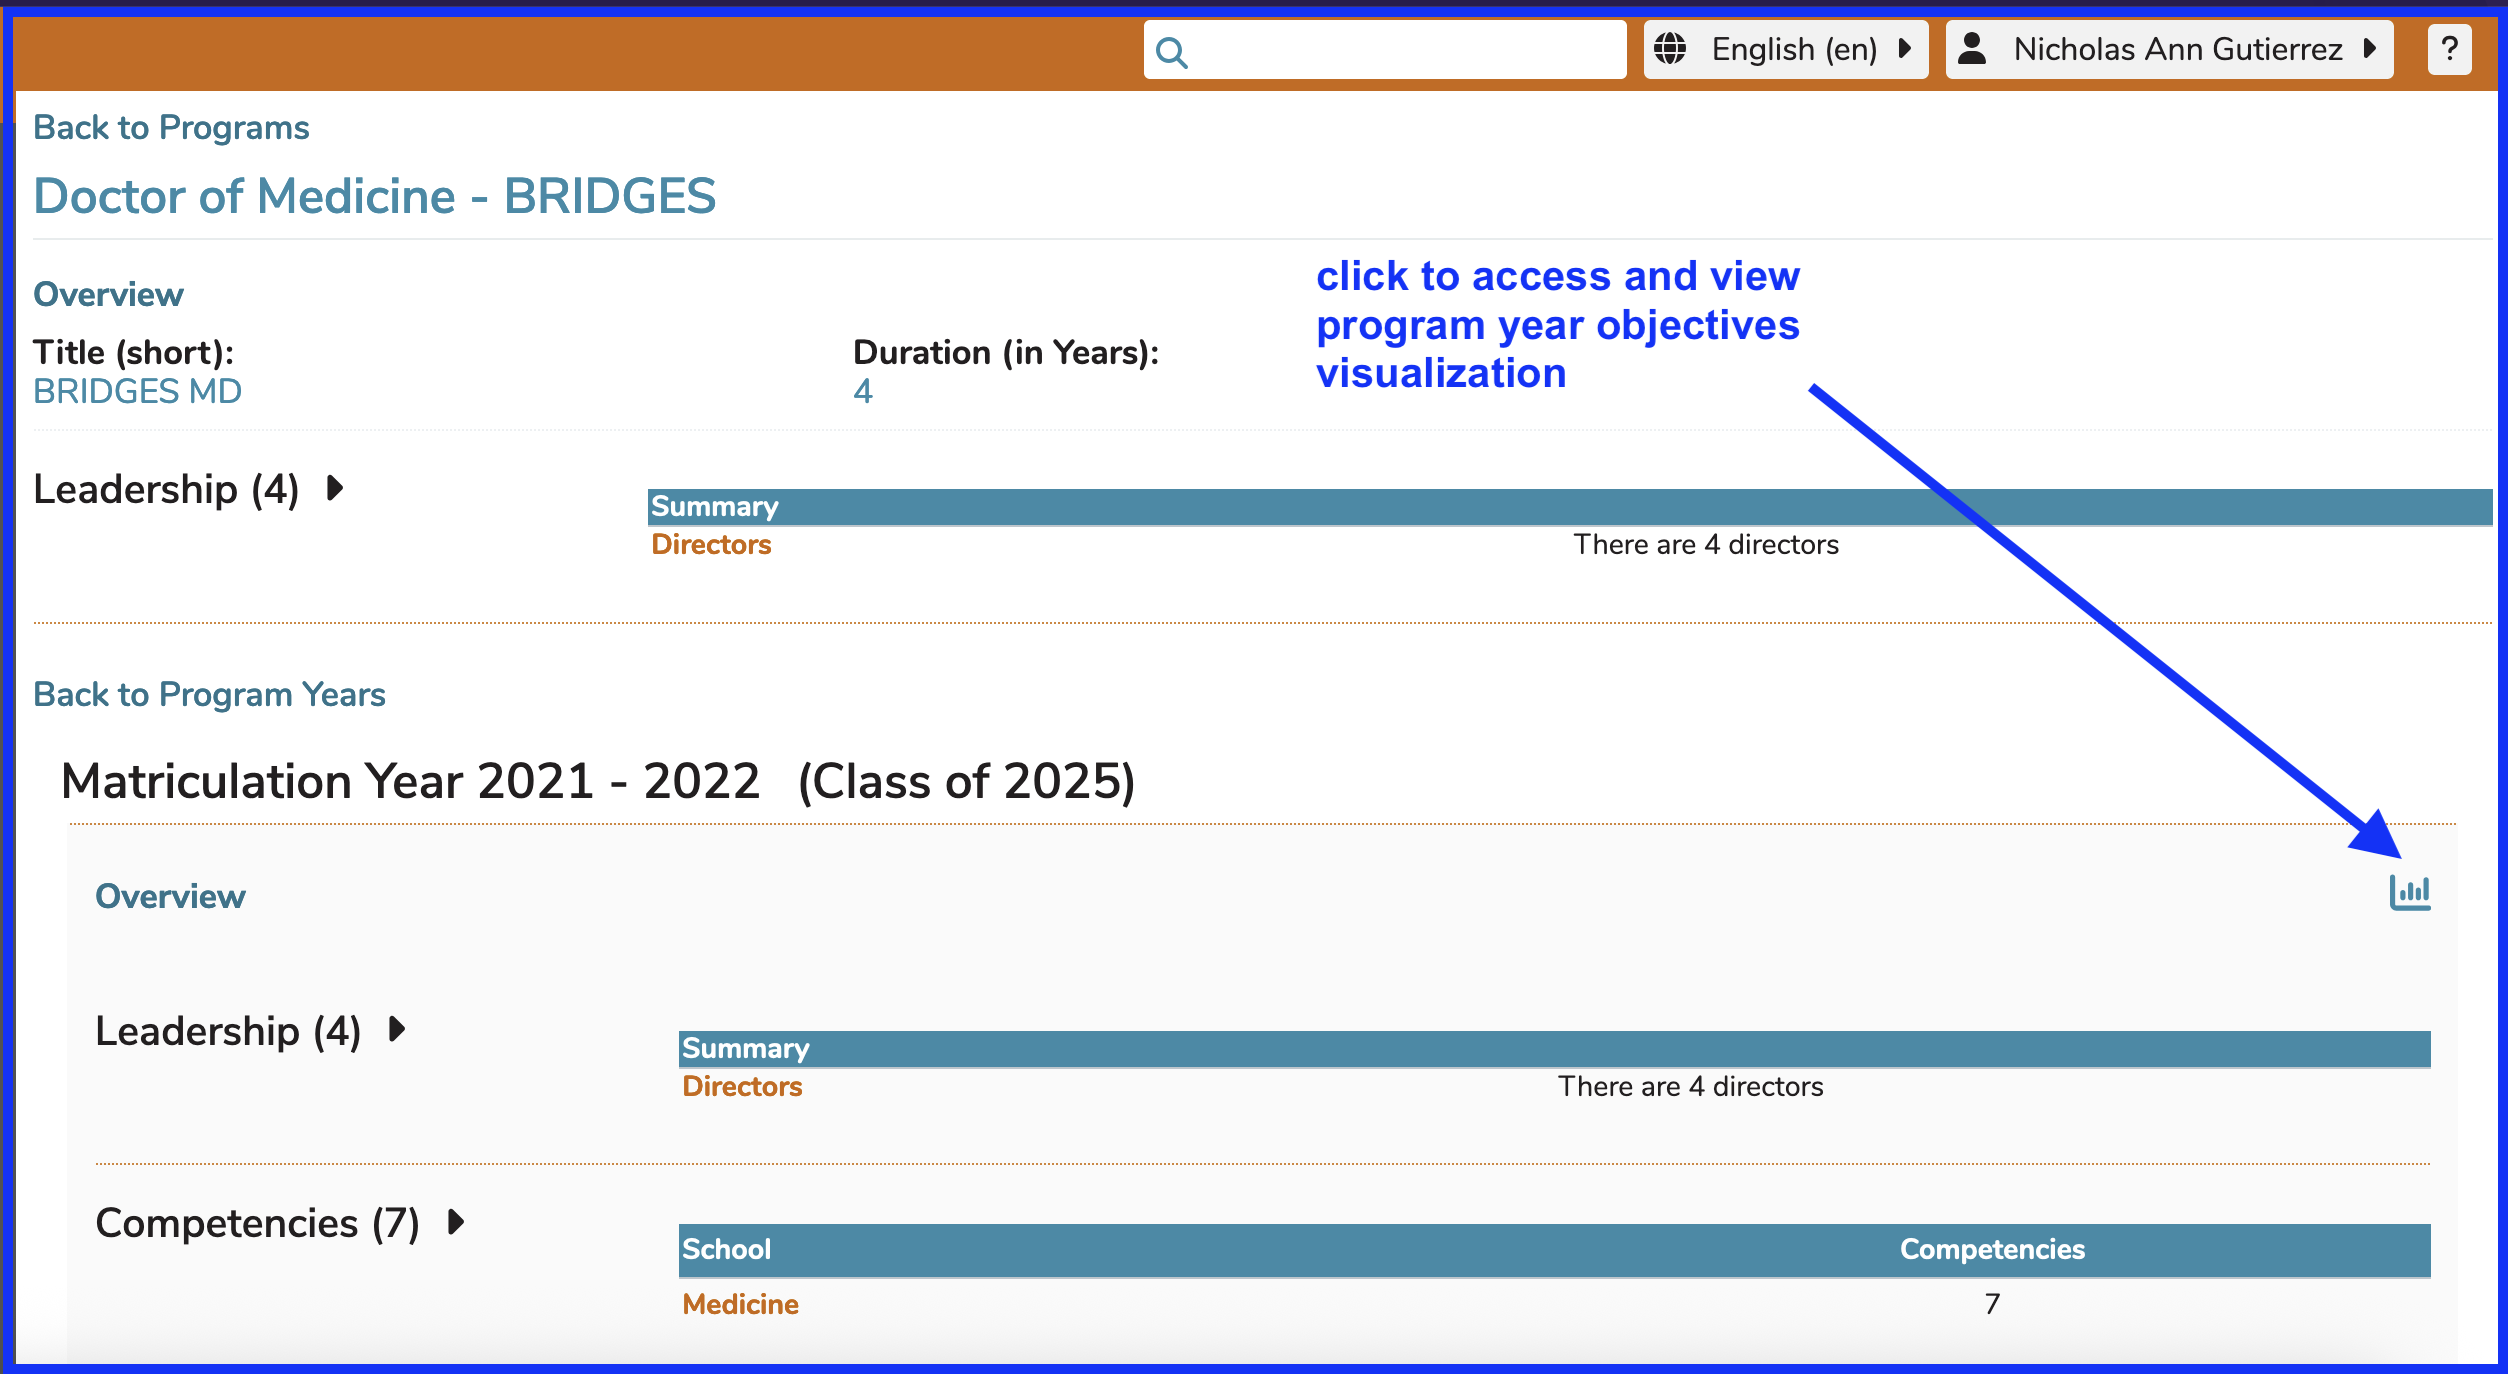
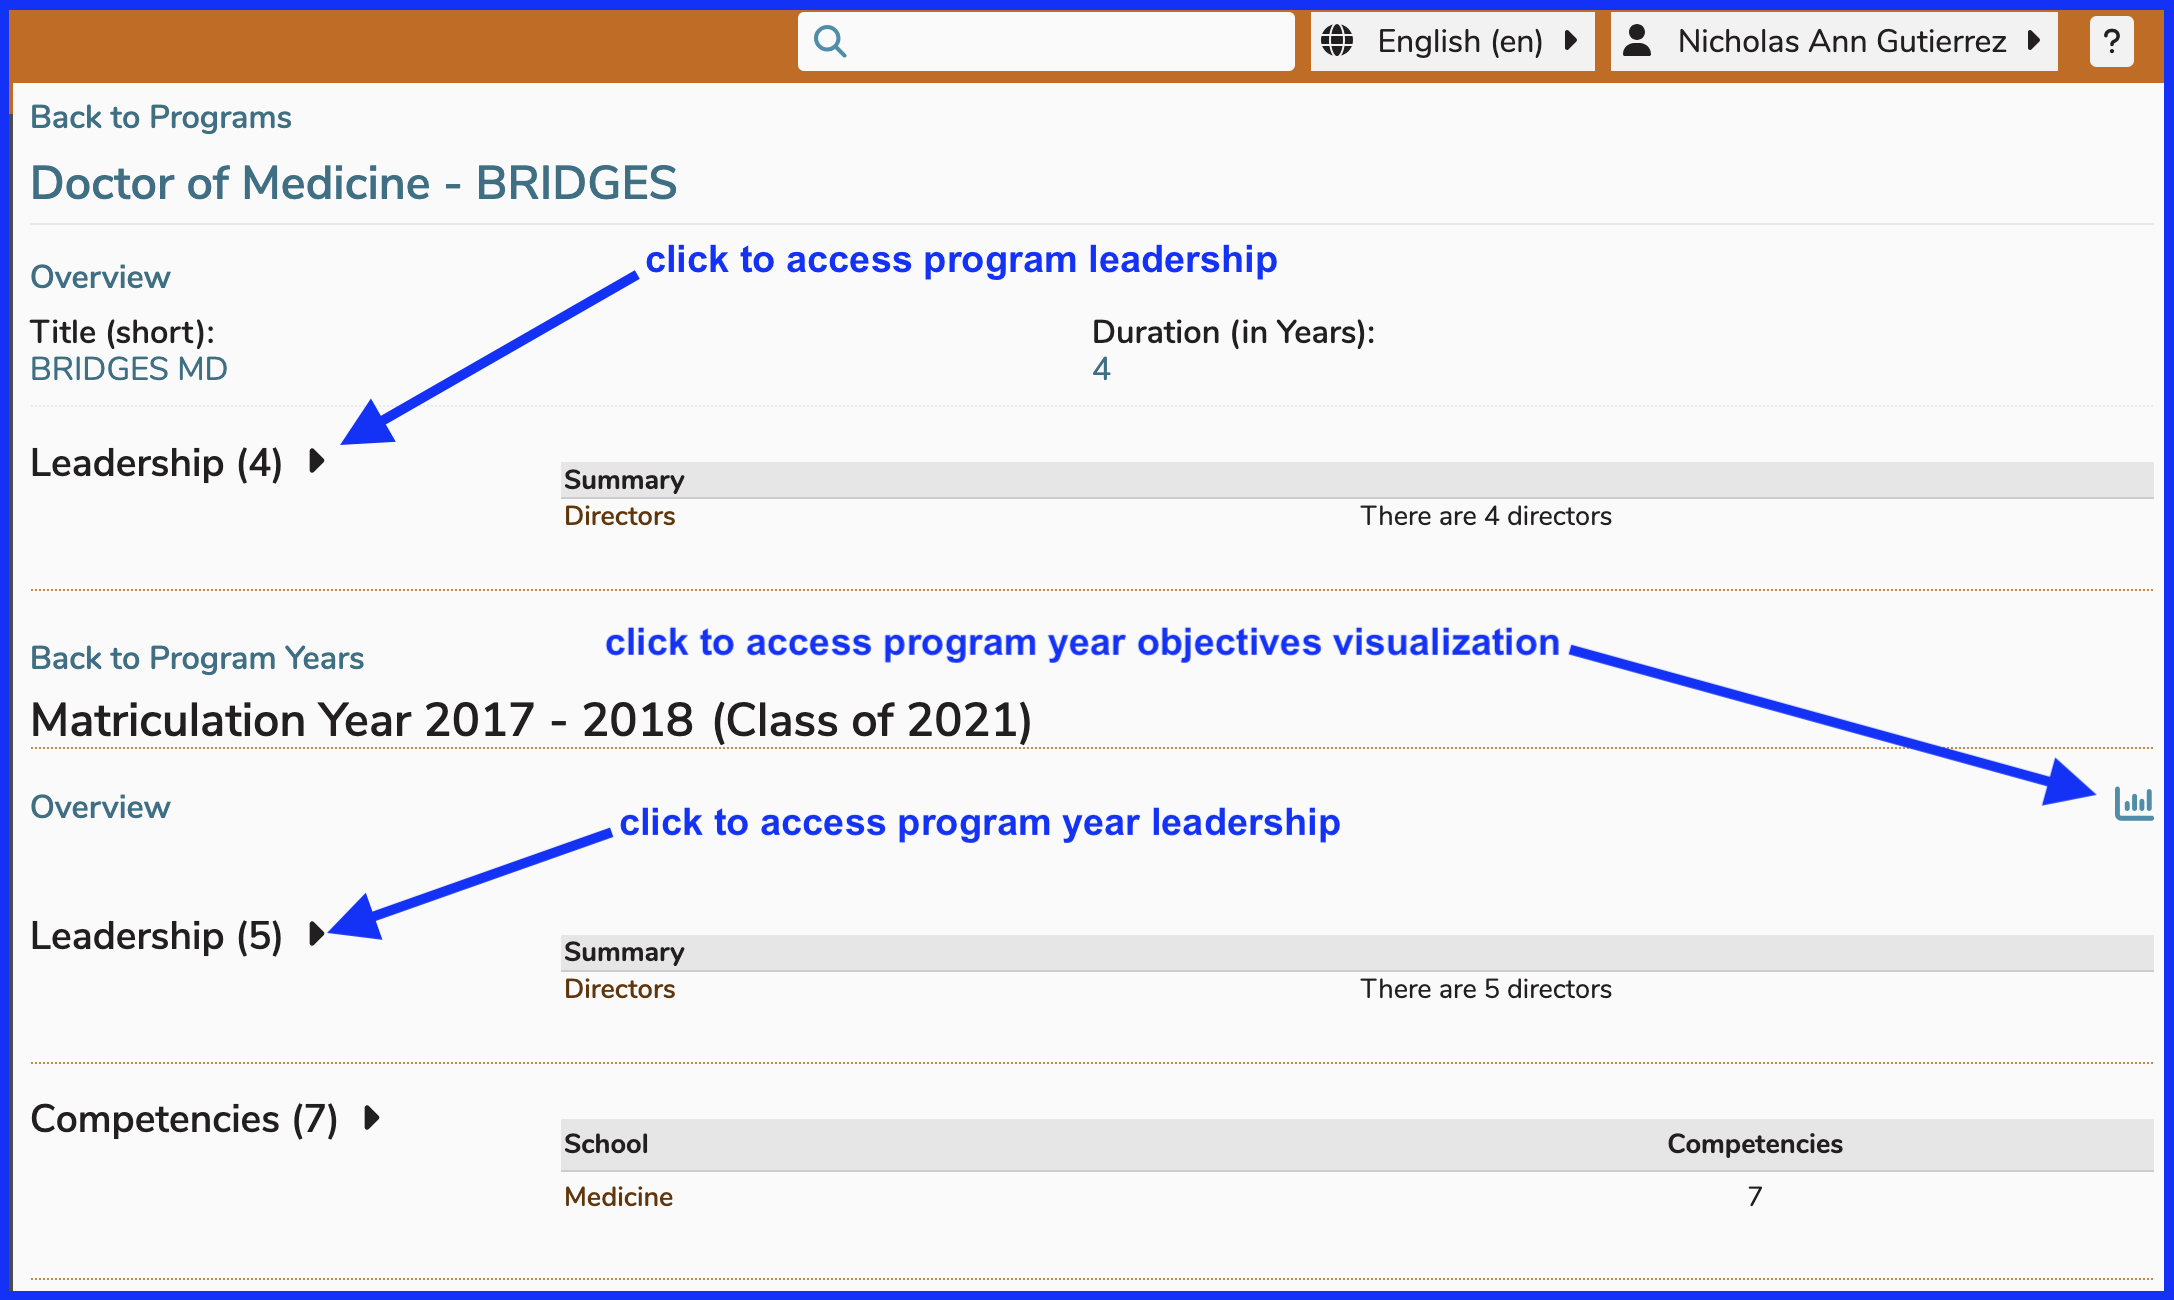
image updated - bit of text added

diff --git a/programs/program-year-objective-map-visualization.md b/programs/program-year-objective-map-visualization.md
@@ -2,7 +2,7 @@
 
 This is a very dense and detailed visualizsation showing program year objectives being mapped down to the course and session level, indicating how this mapping has occured.
 
-It may be helpful to select a matriculation year with a considerable amount of data with a graduation year close to the current year. This will help reflect the full curriculum in detail.
+It may be helpful to select a matriculation year with a considerable amount of data with a graduation year close to the current year. This will help reflect the full curriculum in detail. The image also points out the location of leadership at both the program and program year level.
 
 ![select visualization](../images/programs/objective_map_visualization/select_visualization.png)
 
